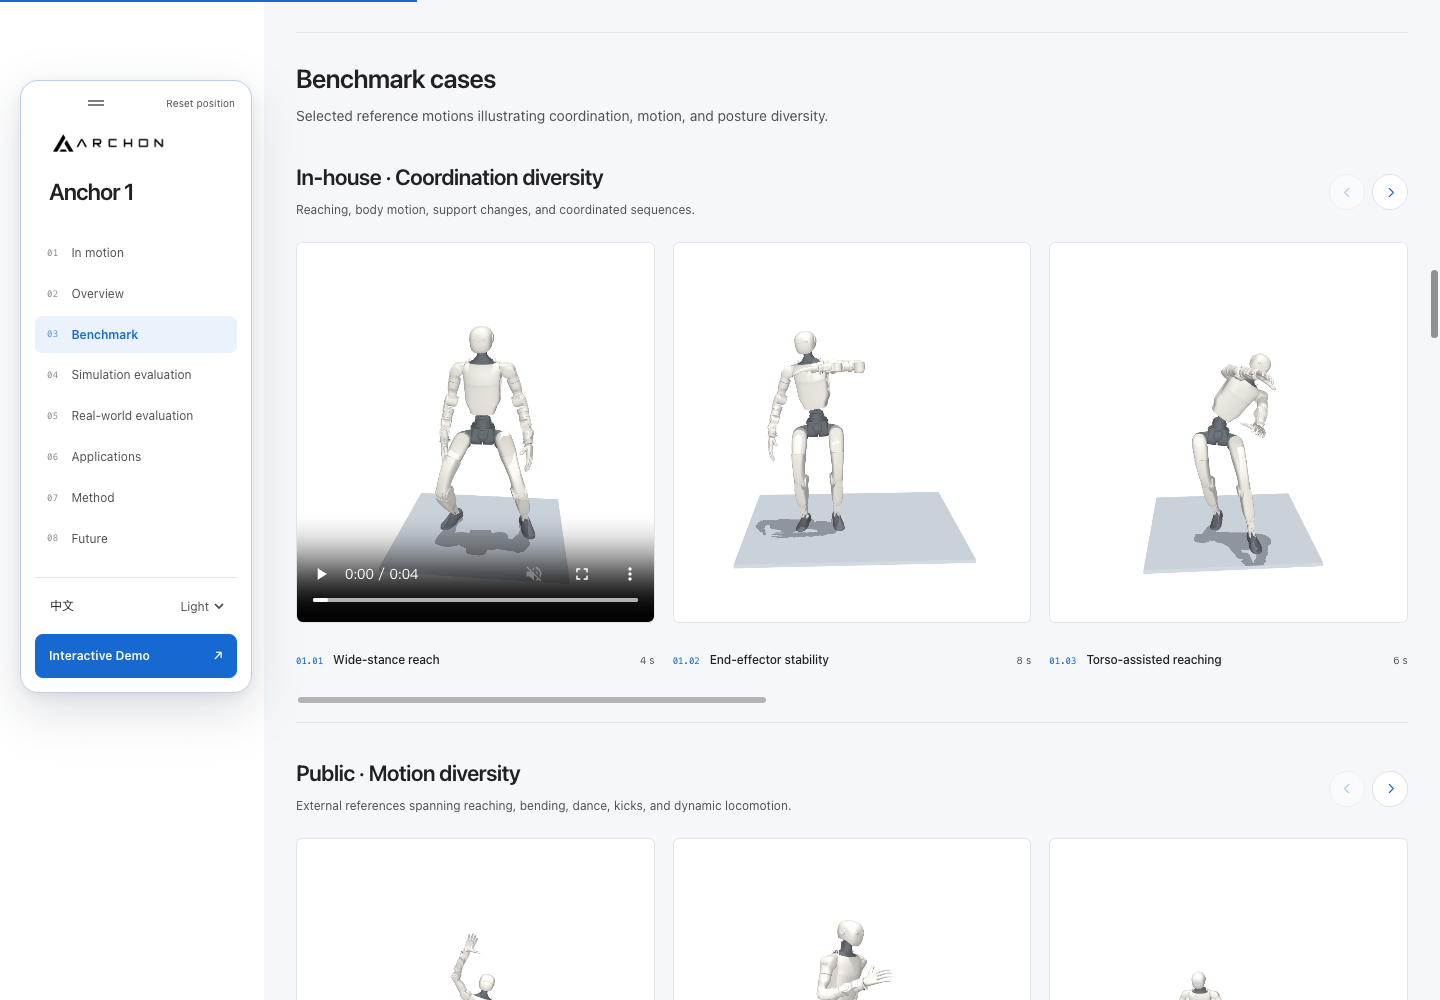
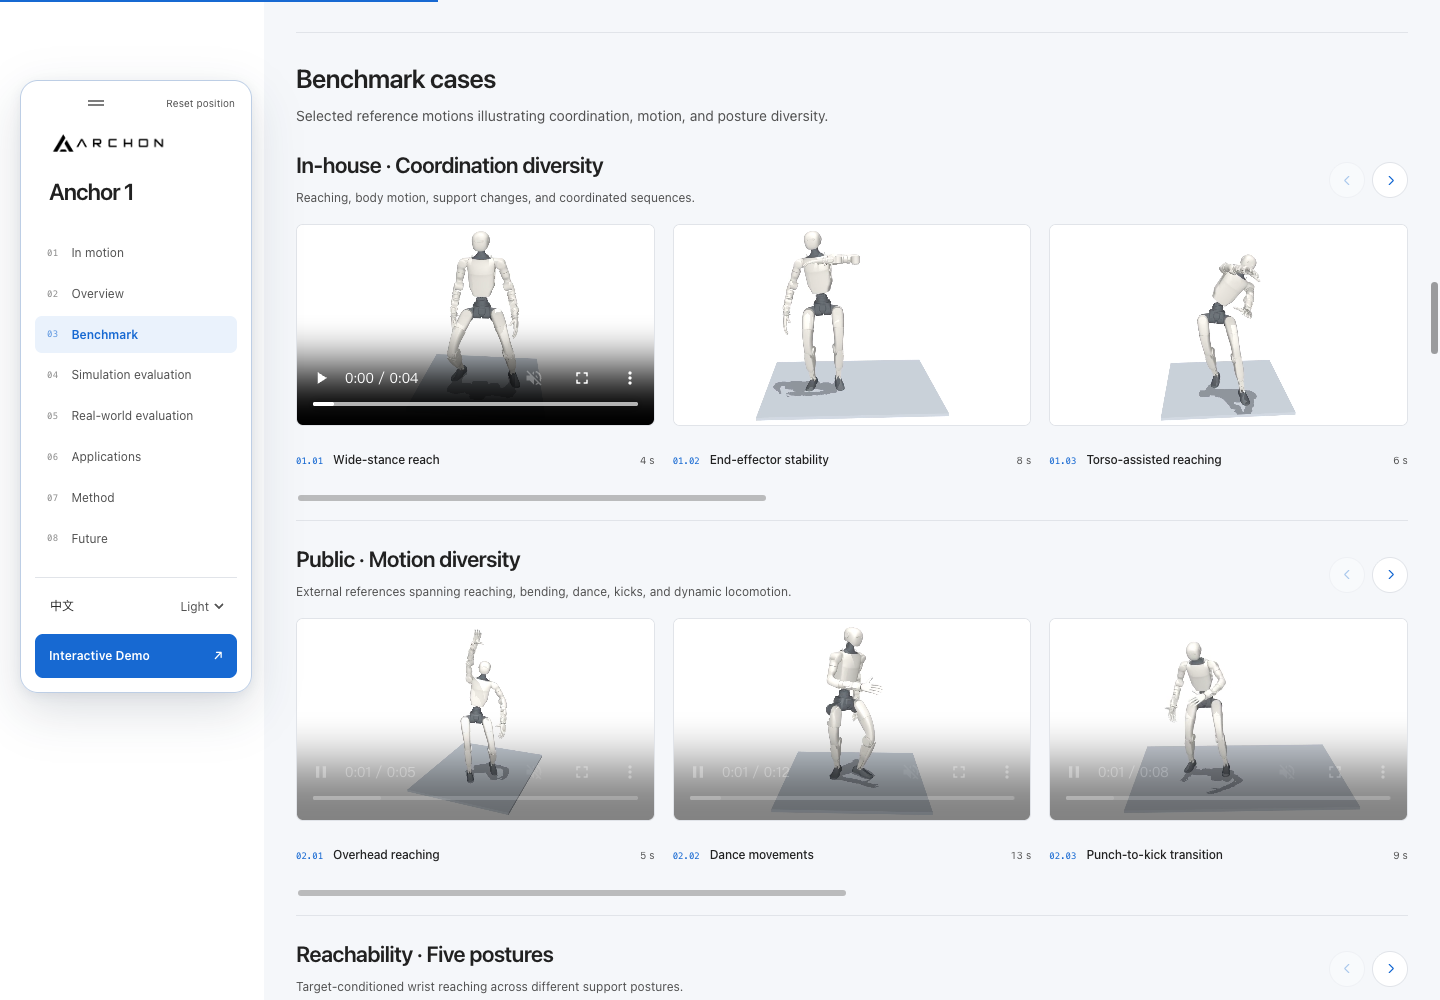
Record cropped benchmark quality and responsive acceptance

diff --git a/docs/benchmark-cases.md b/docs/benchmark-cases.md
@@ -4,7 +4,7 @@ Source: user-supplied `benchmark_mp4_only` folder (100 In-house, 100 Public, 100
 
 Seven In-house examples cover wide support, upper-body reaching, low reaching, torso participation, end-effector stabilization, lower-body movement and multi-phase sequences. Six Public examples include CIRCLE, BONES-SEED, AMASS, OMOMO and the supplied jump-turn example. Five Reachability examples cover standing, shallow squat, deep squat, staggered stance and half kneeling.
 
-Original MP4 bytes are copied unchanged (960 × 1020, native timing), with SHA-256 and original relative paths in `dist/data/benchmark-cases.json`. Total video size: 13.32 MiB. Posters are generated from midpoints at original dimensions. The source files remain untouched. Reproduce with `scripts/prepare-benchmark-cases.py`; selection inputs are in `scripts/benchmark-cases.json`.
+The original 960 × 1020 MP4 files remain untouched. A fixed per-clip crop removes outer whitespace, enclosing the full motion and floor across every frame plus an 18-pixel safety margin. Outputs use H.264 CRF 16 slow without scaling or timing changes. Source and output SHA-256, crop rectangles and original relative paths are recorded in `dist/data/benchmark-cases.json`. Posters use the cropped midpoint frame. Players match the comparison videos’ 1610:906 ratio, with contain fitting to avoid cropping moving limbs further. Reproduce with `scripts/prepare-benchmark-cases.py`; selection inputs are in `scripts/benchmark-cases.json`.
 
 UI: below the three benchmark summary cards; one horizontal rail per track; 3 desktop cards, 2 tablet cards, 1 mobile card with a next-card preview. Reuses the existing media controller and arrow/keyboard/touch controls. Only nearby cards load; visible clips loop muted; offscreen clips pause; user pauses persist. No model, metric or benchmark-count changes.
 
@@ -31,4 +31,8 @@ UI: below the three benchmark summary cards; one horizontal rail per track; 3 de
 | reachability | Staggered-stance reach | `reachability/012_staggered_left__rw_x+020_y+020_z110_s44/reference_motion.mp4` | 16.52 s |
 | reachability | Half-kneeling reach | `reachability/013_half_kneel_left__rw_x+060_y+020_z090_bend0/reference_motion.mp4` | 16.52 s |
 
-Validation: all 18 videos played in-browser at native dimensions; hashes match originals; no horizontal page overflow at 1440, 1024 or 390 px; single-row layout, arrows, lazy loading, offscreen/manual pause and bilingual dark-theme checks passed. Screenshots in `docs/previews/benchmark-cases-*.png`.
+Validation: all 18 videos played in-browser at their recorded cropped dimensions; source hashes match the supplied originals; no horizontal page overflow at 1440, 1024 or 390 px; single-row layout, arrows, lazy loading, offscreen/manual pause and bilingual dark-theme checks passed. Screenshots in `docs/previews/benchmark-cases-*.png`.
+
+## Whitespace crop acceptance
+
+All 6,901 frames retained. Each cropped encode was compared with the same crop of its original source; the lowest per-video mean SSIM was 0.998419. Per-video frame counts, crop rectangles and scores are in `benchmark-crop-verification.json`. Original sources remain unchanged. Desktop and mobile player aspect ratios match the comparison group (1610:906); all 18 clips, lazy loading, scrolling, pause/resume and bilingual layouts passed browser checks.
